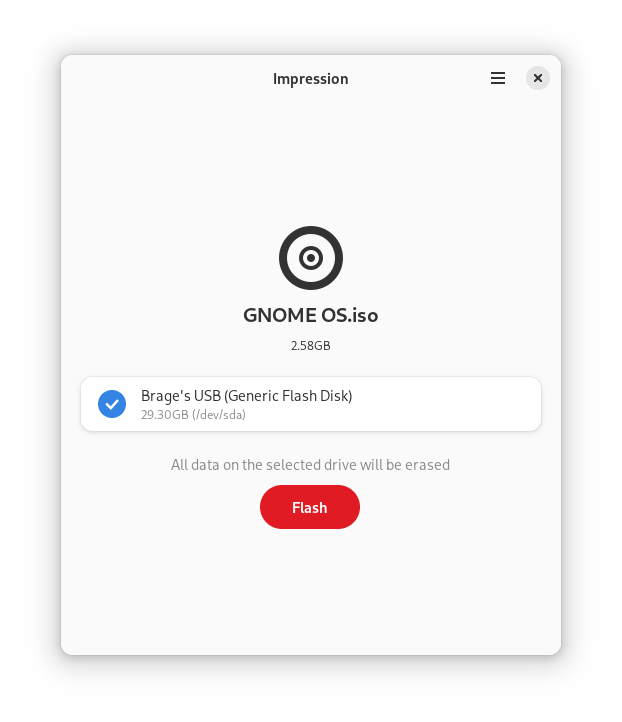
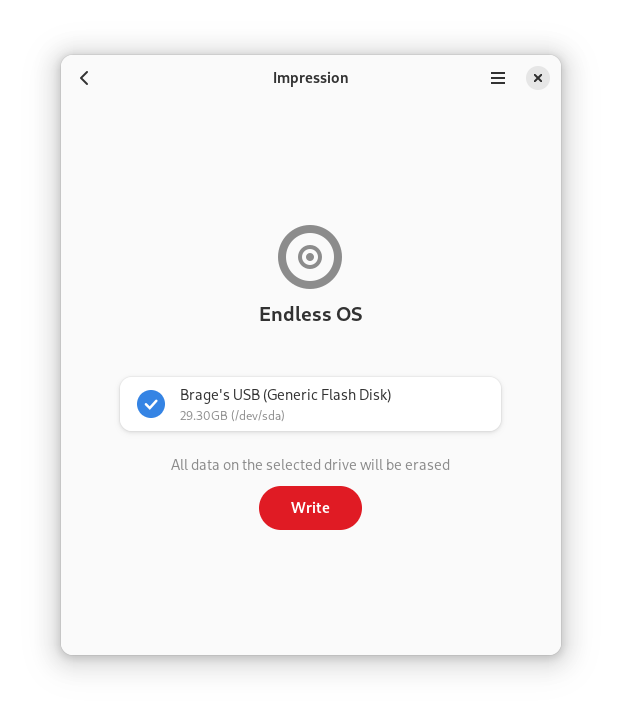
update screenshot to fix #26

diff --git a/src/window.rs b/src/window.rs
@@ -37,7 +37,7 @@ mod imp {
         sync::atomic::AtomicBool,
     };
 
-    use crate::config::APP_ID;
+    use crate::config::{APP_ID, PROFILE};
 
     use super::*;
 
@@ -57,8 +57,6 @@ mod imp {
         pub main_stack: TemplateChild<gtk::Stack>,
         #[template_child]
         pub navigation: TemplateChild<adw::NavigationView>,
-        #[template_child]
-        pub app_icon: TemplateChild<gtk::Image>,
         #[template_child]
         pub open_image_button: TemplateChild<adw::ActionRow>,
         #[template_child]
@@ -87,8 +85,6 @@ mod imp {
         pub offline_screen: TemplateChild<gtk::Box>,
         #[template_child]
         pub distros: TemplateChild<gtk::Box>,
-        #[template_child]
-        pub no_devices_status: TemplateChild<adw::StatusPage>,
         #[template_child]
         pub amd_distros: TemplateChild<gtk::ListBox>,
         #[template_child]
@@ -125,12 +121,9 @@ mod imp {
         fn constructed(&self) {
             self.parent_constructed();
 
-            if APP_ID.ends_with("Devel") {
+            if PROFILE == "Devel" {
                 self.obj().add_css_class("devel");
             }
-
-            self.app_icon.set_icon_name(Some(APP_ID));
-            self.no_devices_status.set_icon_name(Some(APP_ID));
 
             let obj = self.obj();
             obj.load_window_size();

diff --git a/README.md b/README.md
@@ -24,7 +24,7 @@ You may also be able to obtain Impression from your distribution's package manag
 
 Write disk images onto your drives with ease. Select an image, insert your drive, and you're good to go! Impression is a useful tool for both avid distro-hoppers and casual computer users. See [Press](PRESS.md) for content mentioning Impression from various writers, content creators, etc.
 
-<img src="data/resources/screenshots/0.png" alt="Main screen with a chosen ISO and one USB memory">
+<img src="data/resources/screenshots/3.png" alt="Main screen with a chosen ISO and one USB memory">
 
 ## Contributing
 Issues and merge requests are more than welcome. However, please take the following into consideration:
